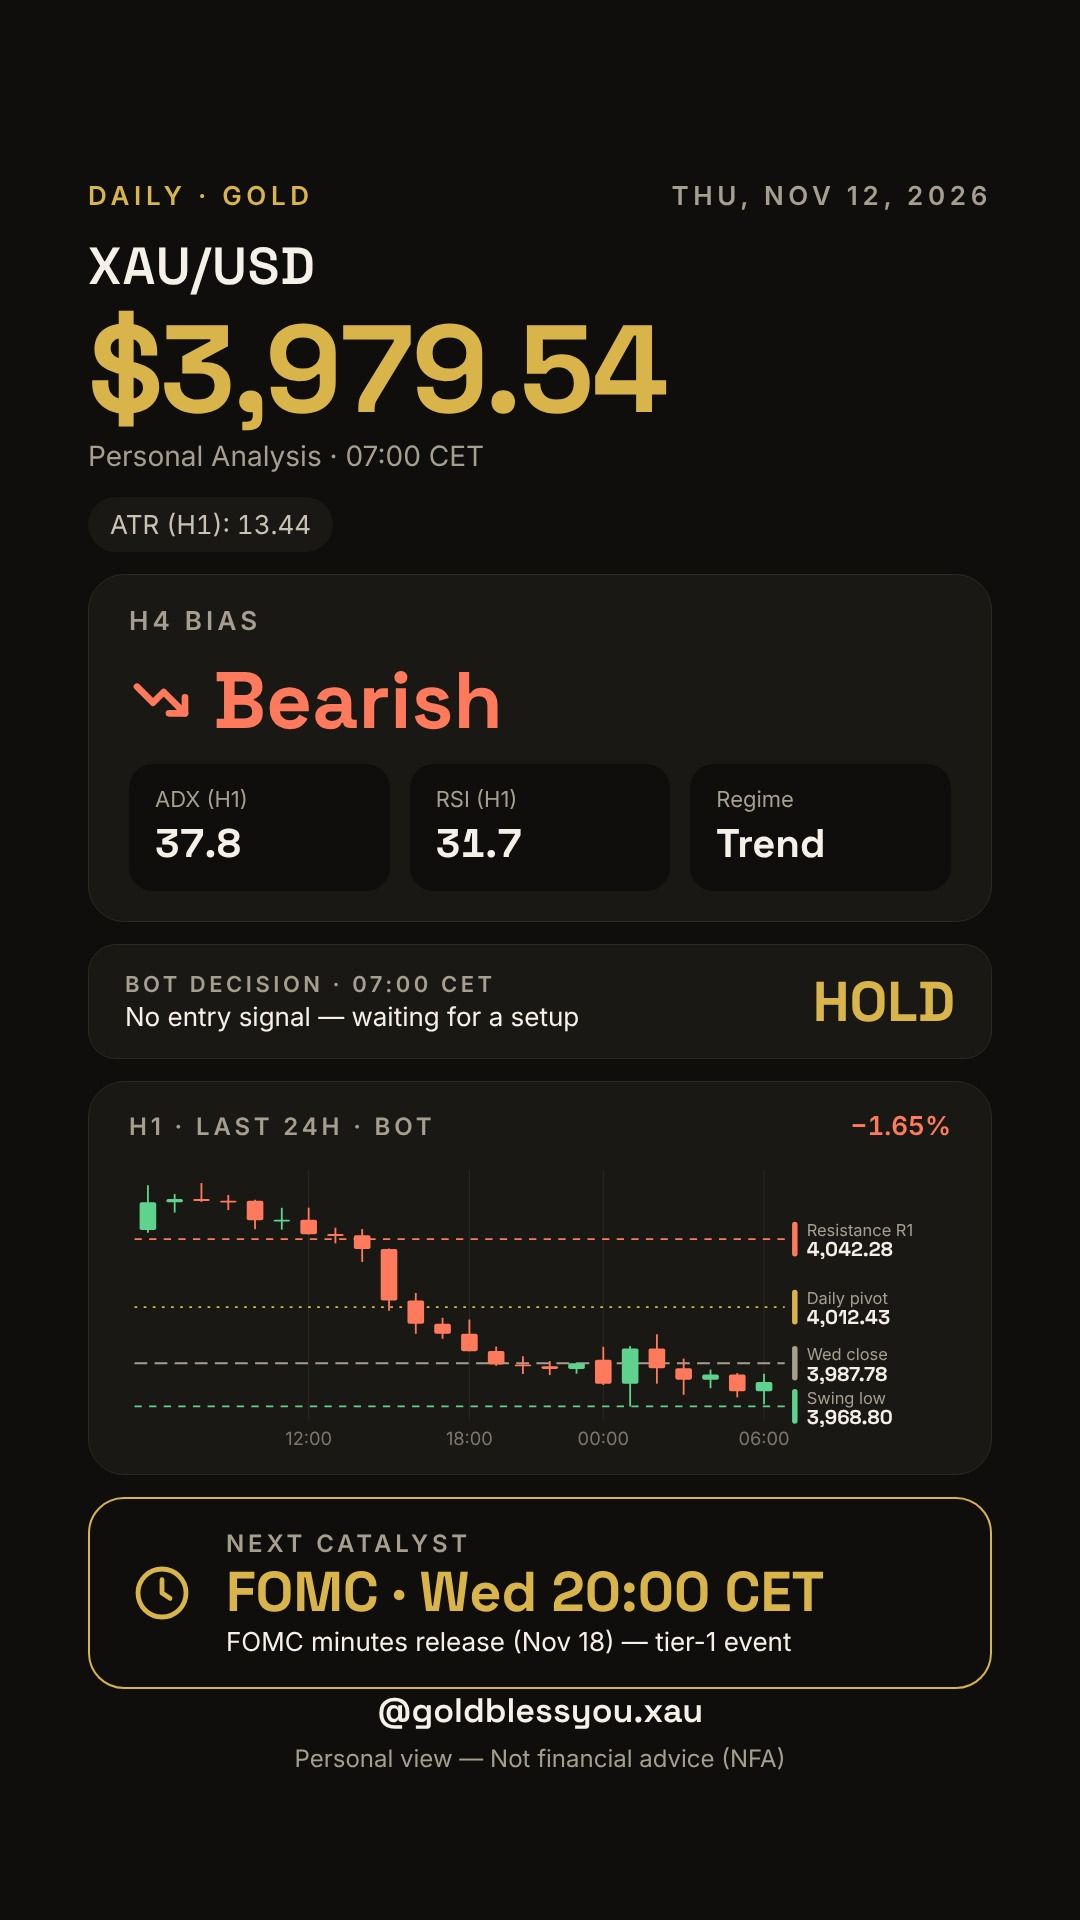
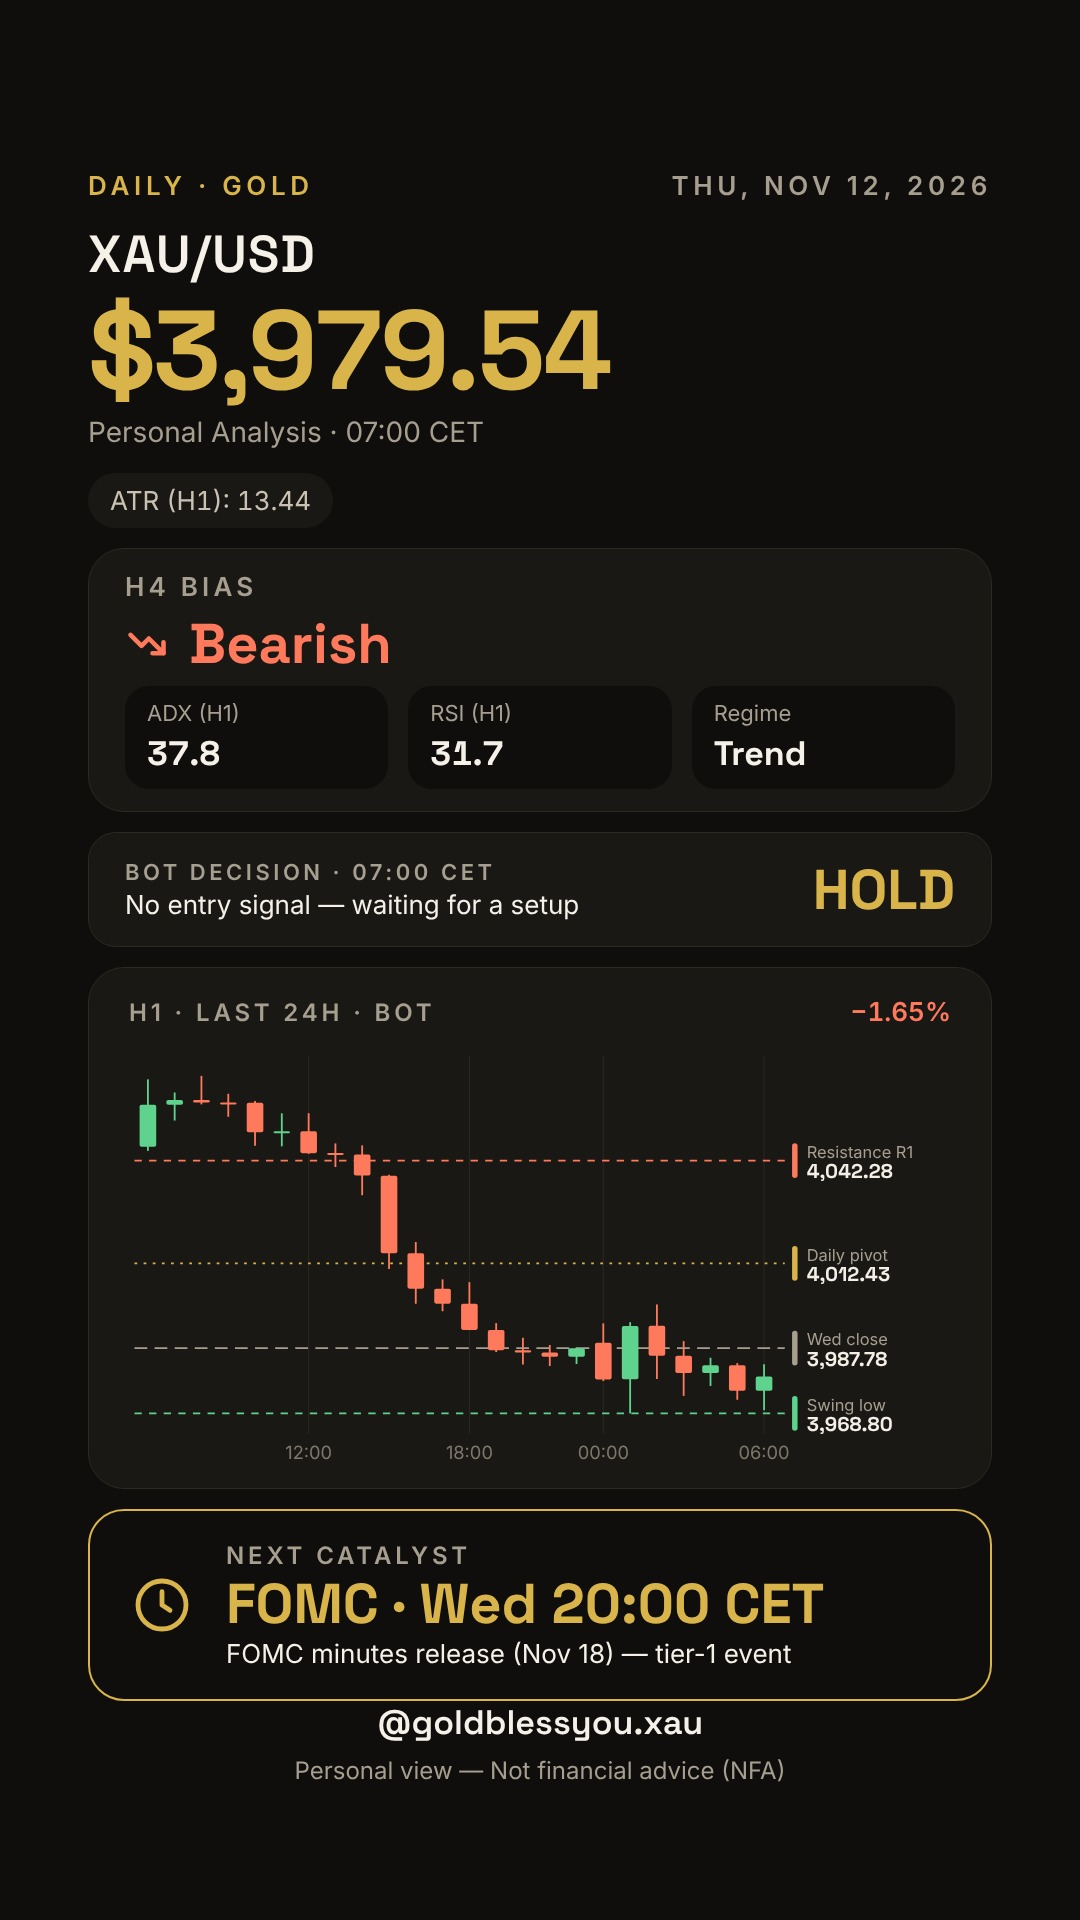
Daily story: compact bias card, larger H1 chart
Claude-Session: https://claude.ai/code/session_013pLfN9NZ11vsKJBzf87S8n

diff --git a/tools/render_daily.py b/tools/render_daily.py
@@ -43,10 +43,10 @@ PAGE = Template("""<!doctype html>
 <div style="font-family: 'Space Grotesk', sans-serif; font-size: $price_size; line-height: 1; font-weight: 700; letter-spacing: -0.03em; font-variant-numeric: tabular-nums; color: #D9B44A">$price</div>
 <div style="font-size: 28px; color: #A69F90">Personal Analysis · $time CET</div>
 <div style="display: flex; gap: 16px; flex-wrap: wrap; margin-top: 16px">$pills</div></div>
-<div style="background: #1A1815; border: 1px solid #2E2A22; border-radius: 36px; padding: $bias_pad; display: flex; flex-direction: column; gap: 24px">
+<div style="background: #1A1815; border: 1px solid #2E2A22; border-radius: 36px; padding: $bias_pad; display: flex; flex-direction: column; gap: $bias_gap">
 <span style="font-size: 26px; letter-spacing: 0.16em; text-transform: uppercase; color: #A69F90; font-weight: 600">H4 bias</span>
-<div style="display: flex; align-items: center; gap: 20px; font-family: 'Space Grotesk', sans-serif; font-size: 80px; line-height: 1; font-weight: 700; color: $bias_color">
-<svg width="64" height="64" viewBox="0 0 24 24" fill="none" stroke="currentColor" stroke-width="2.5" stroke-linecap="round" stroke-linejoin="round" aria-hidden="true">$bias_icon</svg>$bias_label</div>
+<div style="display: flex; align-items: center; gap: 20px; font-family: 'Space Grotesk', sans-serif; font-size: $bias_size; line-height: 1; font-weight: 700; color: $bias_color">
+<svg width="$bias_icon" height="$bias_icon" viewBox="0 0 24 24" fill="none" stroke="currentColor" stroke-width="2.5" stroke-linecap="round" stroke-linejoin="round" aria-hidden="true">$bias_paths</svg>$bias_label</div>
 <div style="display: grid; grid-template-columns: repeat(3, minmax(0, 1fr)); gap: 20px">$tiles</div></div>
 <div style="background: #1A1815; border: 1px solid #2E2A22; border-radius: 28px; padding: 26px 36px; display: flex; align-items: center; justify-content: space-between; gap: 24px">
 <span style="display: flex; flex-direction: column; gap: 4px"><span style="font-size: 22px; letter-spacing: 0.16em; text-transform: uppercase; color: #A69F90; font-weight: 600">Bot decision · $time CET</span><span style="font-size: 26px">$decision_text</span></span>
@@ -113,7 +113,7 @@ def build_chart(candles, levels, prev_close):
               (prev_close or {}).get("value"), "#A69F90", "14 8"),
              (src("Support", "key_support_src"), first(levels, "key_support", "support"), BULL, "8 8")]
     lines = [x for x in lines if x[1] is not None]
-    W, H, L, R, T, B = 900, 330, 6, 190, 16, 40
+    W, H, L, R, T, B = 900, 470, 6, 190, 16, 40
     vals = [c["h"] for c in cs] + [c["l"] for c in cs] + [v for _, v, _, _ in lines]
     lo, hi = min(vals), max(vals)
     pad = (hi - lo) * 0.06 or 1
@@ -187,9 +187,11 @@ def build_html(a, ref, prev_close, prev_pct, prev_day, cat_title, cat_desc, leve
         pills.append(PILL.format(f"ATR (H1): {a['atr']:.2f}"))
 
     regime = REGIMES.get(a.get("regime") or "", (a.get("regime") or "—").replace("_", " ").capitalize())
-    tiles = [TILE.format("ADX (H1)", 40, "—" if a.get("adx") is None else f"{a['adx']:.1f}"),
-             TILE.format("RSI (H1)", 40, "—" if a.get("rsi") is None else f"{a['rsi']:.1f}"),
-             TILE.format("Regime", 34 if len(regime) > 6 else 40, e(regime))]
+    big = 34 if chart else 40
+    tile = TILE.replace("padding: 22px 26px", "padding: 14px 22px") if chart else TILE
+    tiles = [tile.format("ADX (H1)", big, "—" if a.get("adx") is None else f"{a['adx']:.1f}"),
+             tile.format("RSI (H1)", big, "—" if a.get("rsi") is None else f"{a['rsi']:.1f}"),
+             tile.format("Regime", (30 if chart else 34) if len(regime) > 6 else big, e(regime))]
 
     catalyst = ""
     if cat_title:
@@ -201,12 +203,14 @@ def build_html(a, ref, prev_close, prev_pct, prev_day, cat_title, cat_desc, leve
     return PAGE.substitute(
         date_iso=ref.isoformat(), date_label=ref.strftime("%a, %b ") + str(ref.day) + ref.strftime(", %Y"),
         price=money(a["price"]), time=time_txt, pills="".join(pills),
-        bias_color=bias_color, bias_icon=bias_icon, bias_label=bias_label, tiles="".join(tiles),
+        bias_color=bias_color, bias_paths=bias_icon, bias_label=bias_label, tiles="".join(tiles),
         decision=e(decision), decision_text=e(decision_text), decision_color=decision_color,
         levels=lv, catalyst=catalyst, handle=HANDLE,
-        pad_top="180px" if lv else "250px", pad_bottom="290px" if lv else "340px",
-        gap="22px" if lv else "30px", bias_pad="30px 40px" if lv else "40px",
-        price_size="124px" if lv else "150px")
+        pad_top="170px" if chart else ("180px" if lv else "250px"), pad_bottom="250px" if chart else ("290px" if lv else "340px"),
+        gap="20px" if chart else ("22px" if lv else "30px"),
+        bias_pad="22px 36px" if chart else ("30px 40px" if lv else "40px"),
+        bias_gap="14px" if chart else "24px", bias_size="56px" if chart else "80px", bias_icon=44 if chart else 64,
+        price_size="112px" if chart else ("124px" if lv else "150px"))
 
 
 def render(html_text, out_path):
